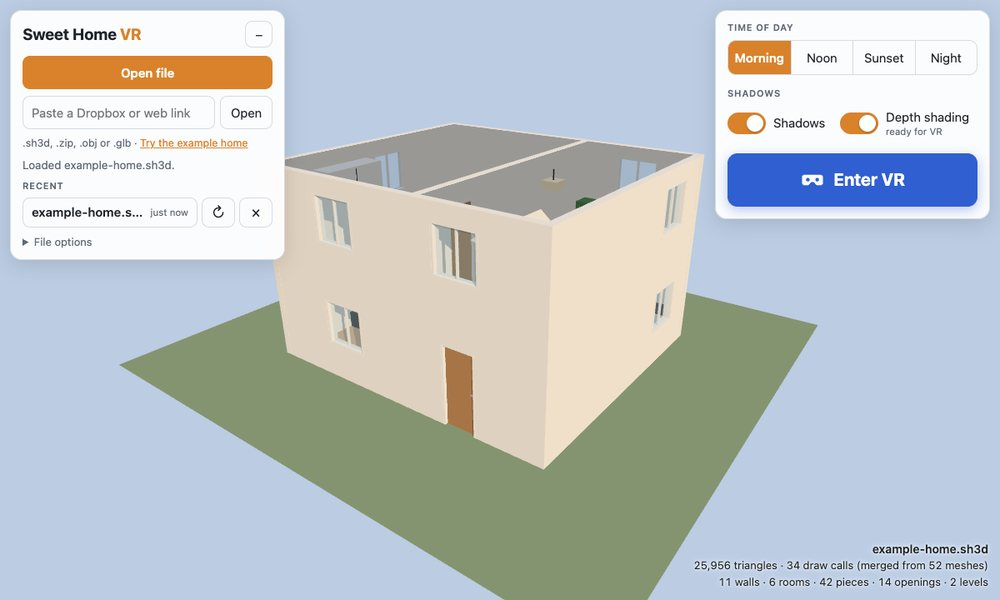
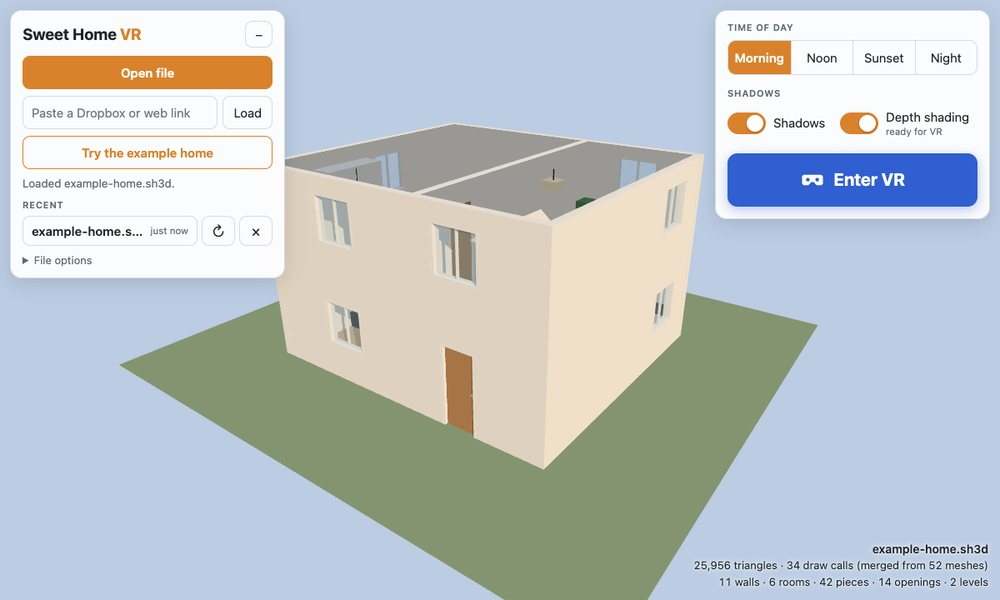
Welcome notes on the empty page; Load button; example as an outline button
- While no model is open, two handwritten-style notes with sketched
  arrows sit under the two cards: 1 Start here (with the file formats),
  2 Set the mood; they go once a model is open
- The file formats moved from the files card into the first note
- The link button is labelled Load; Try the example home is an outline
  button
- Loose media files in the project root are ignored by git

Changed region(s): [[0.0, 0.18, 0.31, 0.48], [0.217, 0.36, 0.248, 0.39]]

diff --git a/index.html b/index.html
@@ -57,7 +57,8 @@
 		button:hover { border-color: var(--accent); }
 		button.primary { background: var(--accent); border-color: var(--accent); color: var(--accent-text); font-weight: 600; }
 		button:disabled { opacity: .5; cursor: default; }
-		button.link { border: 0; min-height: 0; padding: 0; color: var(--accent); text-decoration: underline; font-size: inherit; }
+		button.outline { border-color: var(--accent); color: var(--accent); font-weight: 600; }
+		button.outline:hover { background: color-mix(in srgb, var(--accent) 12%, transparent); }
 		input[type=url], select { font: inherit; color: var(--text); background: transparent; border: 1px solid var(--line);
 			border-radius: 9px; padding: 0 10px; min-height: 40px; width: 100%; min-width: 0; }
 		h2 { font-size: 11px; text-transform: uppercase; letter-spacing: .07em; color: var(--muted); margin: 0; font-weight: 600; }
@@ -141,6 +142,43 @@
 			#panel:not(.collapsed) ~ #stats { display: none; } /* no room while the files card is open */
 			button.xr { min-height: 56px; }
 		}
+		/* ---- Welcome: two handwritten notes with sketched arrows, over the
+		   empty view until a model is open. main.js places each beside what it
+		   points at. System handwriting fonts only (nothing is downloaded). ---- */
+		#welcome { position: fixed; pointer-events: none; color: #27313a;
+			font-family: "Bradley Hand", "Segoe Print", "Chalkboard SE", "Marker Felt", "Comic Sans MS", cursive;
+			text-shadow: 0 0 3px rgba(255,255,255,.95), 0 0 12px rgba(255,255,255,.8); }
+		body.dark-sky #welcome { color: #f6f1e7; text-shadow: 0 0 3px rgba(0,0,0,.9), 0 0 12px rgba(0,0,0,.7); }
+		#welcome .step { position: absolute; display: flex; align-items: center; gap: 8px; padding: 0 6px; }
+		#welcome .step[data-dir="right"] { justify-content: flex-end; }
+		#welcome .step:nth-child(1) .text { transform: rotate(-2deg); }
+		#welcome .step:nth-child(2) .text { transform: rotate(1.5deg); }
+		/* The number, in a circle drawn by hand. */
+		#welcome .num { flex: 0 0 auto; position: relative; width: 42px; height: 42px; display: grid; place-items: center;
+			font-size: 27px; font-weight: 700; line-height: 1; color: var(--accent); text-shadow: 0 0 3px rgba(255,255,255,.95); }
+		#welcome .num svg { position: absolute; inset: 0; width: 100%; height: 100%; }
+		#welcome .text { flex: 0 1 auto; max-width: 250px; min-width: 0; }
+		#welcome strong { display: block; font-size: 27px; line-height: 1.1; }
+		#welcome .text span { display: block; font-size: 19px; line-height: 1.2; }
+		#welcome svg { fill: none; stroke: currentColor; stroke-width: 2.6; stroke-linecap: round; stroke-linejoin: round; overflow: visible;
+			filter: drop-shadow(0 0 2px rgba(255,255,255,.9)); }
+		body.dark-sky #welcome svg { filter: drop-shadow(0 0 2px rgba(0,0,0,.8)); }
+		#welcome .num svg { stroke: var(--accent); stroke-width: 2.4; }
+		/* The arrow is drawn pointing left; the second note's is mirrored. */
+		#welcome .arrow { flex: 0 1 86px; min-width: 46px; aspect-ratio: 90 / 44; }
+		#welcome .step[data-dir="right"] .arrow { transform: scaleX(-1); }
+		#welcome .note { position: absolute; margin: 0; padding: 0 12px; text-align: center; font-size: 19px; opacity: .85; transform: rotate(-1deg); }
+		/* The usual layout: each note under its card ("below"); with the cards
+		   stacked on a narrow window, both notes in the gap between them
+		   ("stack"). The arrow comes first and points up or down. "side" (notes
+		   between the cards) is only used when there is no room under a card. */
+		#welcome[data-layout="stack"] { display: flex; flex-direction: column; justify-content: center; gap: 14px; padding: 0 14px; }
+		#welcome[data-layout="stack"] .step, #welcome[data-layout="stack"] .note { position: static; }
+		#welcome:not([data-layout="side"]) .step { justify-content: flex-start; }
+		#welcome:not([data-layout="side"]) .step[data-dir] .arrow { flex: 0 0 44px; min-width: 0; order: -1; transform: rotate(90deg); }
+		#welcome[data-layout="stack"] .step[data-dir="right"] .arrow { transform: rotate(-90deg) scaleY(-1); }
+		#welcome[data-layout="below"] .text { max-width: none; }
+
 		/* Dropping files on the page */
 		body.dropping #viewport { outline: 3px dashed var(--accent); outline-offset: -10px; }
 	</style>
@@ -158,6 +196,21 @@
 <body>
 	<div id="viewport"></div>
 
+	<!-- Welcome: two handwritten notes with arrows to the two cards. Hidden once a model is open. -->
+	<div id="welcome" hidden aria-label="How to start">
+		<div class="step" data-dir="left">
+			<svg class="arrow" viewBox="0 0 90 44" aria-hidden="true"><path d="M86 12 C 68 33, 36 39, 8 22"/><path d="M14.1 32.4 L8 22 L20 22.8"/></svg>
+			<b class="num"><svg viewBox="0 0 42 42" aria-hidden="true"><path d="M22 4 C 33 3, 39 12, 38 22 C 37 32, 28 39, 18 38 C 8 37, 3 28, 4 19 C 5 10, 13 3, 25 5"/></svg>1</b>
+			<div class="text"><strong>Start here</strong><span>open a .sh3d, .zip, .obj or .glb file, or try the example</span></div>
+		</div>
+		<div class="step" data-dir="right">
+			<b class="num"><svg viewBox="0 0 42 42" aria-hidden="true"><path d="M20 5 C 31 2, 39 11, 38 21 C 37 32, 29 38, 19 38 C 9 38, 3 30, 4 20 C 5 10, 12 4, 24 4"/></svg>2</b>
+			<div class="text"><strong>Set the mood</strong><span>pick the time of day and the shadows</span></div>
+			<svg class="arrow" viewBox="0 0 90 44" aria-hidden="true"><path d="M86 30 C 64 8, 34 6, 8 20"/><path d="M14.7 10.1 L8 20 L20 20"/></svg>
+		</div>
+		<p class="note">Your home never leaves this device.</p>
+	</div>
+
 	<!-- Files: open a model, or reopen a recent one. -->
 	<aside id="panel" class="card">
 		<header>
@@ -168,12 +221,12 @@
 			<!-- No restrictive accept attribute: Quest Browser greys out uncommon extensions. -->
 			<input type="file" id="file-input" multiple>
 			<button id="open-dropbox" class="primary" hidden>Open from Dropbox</button>
-			<button id="open-file" class="primary">Open file</button>
+			<button id="open-file" class="primary" title="Sweet Home 3D 5.3 or later (.sh3d), a zip, an OBJ with its .mtl and textures, or a GLB">Open file</button>
 			<div class="link-row">
 				<input type="url" id="link-input" placeholder="Paste a Dropbox or web link" autocomplete="off" aria-label="Link to a model">
-				<button id="open-link">Open</button>
+				<button id="open-link">Load</button>
 			</div>
-			<p class="hint" title="Sweet Home 3D 5.3 or later (.sh3d), a zip, an OBJ with its .mtl and textures, or a GLB">.sh3d, .zip, .obj or .glb · <button id="open-example" class="link">Try the example home</button></p>
+			<button id="open-example" class="outline">Try the example home</button>
 			<div id="status" role="status"></div>
 			<section id="recent-section" hidden>
 				<h2>Recent</h2>

diff --git a/js/main.js b/js/main.js
@@ -399,7 +399,7 @@ function setupDropbox() {
 }
 
 function openFromDropbox() {
-	if (!window.Dropbox) { setStatus('Dropbox is not available right now. Try Open from link instead.', true); return; }
+	if (!window.Dropbox) { setStatus('Dropbox is not available right now. Paste a link and press Load instead.', true); return; }
 	// Must run directly in the click handler, or the browser blocks the popup.
 	window.Dropbox.choose({
 		linkType: 'direct',
@@ -481,6 +481,7 @@ let xrSupport = { vr: false, ar: false };
 let xrChecked = false; // the browser has answered whether it supports VR
 
 function updateXRButtons() {
+	layoutWelcomeSoon(); // (called whenever loading starts or ends, or VR support becomes known)
 	const box = $('xr-buttons');
 	box.replaceChildren();
 	if (!xrSupport.vr && !xrSupport.ar) {
@@ -550,6 +551,77 @@ $('units').value = CONFIG.defaultObjUnits;
 $('link-input').value = getLastLink();
 renderRecents();
 
+// ---------------------------------------------------------------------------
+// Welcome: three steps with arrows over the empty view, until a model is open
+// ---------------------------------------------------------------------------
+
+/**
+ * Places the two welcome notes by what they point at: 1 the files card, 2
+ * the display card. Three layouts:
+ *   below  (preferred) each note sits under its card, with an arrow up to it
+ *   side   a card is too tall to leave room beneath it: the notes go between
+ *          the cards instead, level with the Open file button and the options
+ *   stack  cards stacked (narrow windows): both notes in the gap between them
+ */
+function layoutWelcome() {
+	const w = $('welcome');
+	const show = !current && loading === 0;
+	w.hidden = !show;
+	if (!show) return;
+	const p = $('panel').getBoundingClientRect(), v = $('view').getBoundingClientRect();
+	const [one, two] = w.querySelectorAll('.step'), note = w.querySelector('.note');
+	const H = window.innerHeight, strip = v.left - p.right;
+	const place = (el, left, top, width) => Object.assign(el.style, { left: `${left}px`, top: `${top}px`, width: `${width}px` });
+	note.hidden = false;
+
+	if (v.top > p.bottom) {
+		// Stacked: the gap between the files card (top) and the display card (bottom).
+		w.dataset.layout = 'stack';
+		const top = p.bottom + 8, height = v.top - 8 - top;
+		for (const el of [one, two, note]) Object.assign(el.style, { left: '', top: '', width: '' });
+		Object.assign(w.style, { left: '0px', top: `${top}px`, width: '100%', height: `${Math.max(0, height)}px` });
+		w.hidden = height < 60 || w.scrollHeight > height + 1; // no room: better nothing than cut-off notes
+		return;
+	}
+	Object.assign(w.style, { left: '0px', top: '0px', width: '100%', height: `${H}px` });
+
+	// Preferred: each note under its card.
+	w.dataset.layout = 'below';
+	place(one, p.left, p.bottom + 12, p.width);
+	place(two, v.left, v.bottom + 12, v.width);
+	let bottom = Math.max(p.bottom + 12 + one.offsetHeight, v.bottom + 12 + two.offsetHeight);
+	place(note, 0, bottom + 26, window.innerWidth);
+
+	if (bottom > H - 6 && strip >= 240) {
+		// No room under a card (a long Recent list, a short window): between the cards.
+		w.dataset.layout = 'side';
+		const width = Math.min(strip, 350);
+		one.style.width = two.style.width = `${width}px`; // (set first: their heights depend on it)
+		const centre = (el) => { const r = el.getBoundingClientRect(); return r.height ? (r.top + r.bottom) / 2 : 0; };
+		const top1 = Math.max(4, (centre($('open-file')) || centre($('collapse'))) - one.offsetHeight / 2);
+		// Note 2 points at the middle of the options; if the strip is too narrow
+		// for the notes to pass each other, it moves down below note 1.
+		const options = ($('time').getBoundingClientRect().top + document.querySelector('#view .switches').getBoundingClientRect().bottom) / 2;
+		let top2 = Math.max(4, options - two.offsetHeight / 2);
+		if (strip < 2 * width) top2 = Math.max(top2, top1 + one.offsetHeight + 10);
+		place(one, p.right, top1, width);
+		place(two, v.left - width, top2, width);
+		bottom = Math.max(top1 + one.offsetHeight, top2 + two.offsetHeight);
+		place(note, p.right, Math.max(bottom + 30, Math.min(H * 0.62, H - 70)), strip);
+	}
+	note.hidden = note.offsetTop + note.offsetHeight > H - 6; // (the last line goes first when space runs out)
+	w.hidden = bottom > H - 6; // a very short window: no room at all
+}
+let welcomeQueued = false;
+/** Lays the welcome out after the page has settled (several changes in one frame cost one layout). */
+function layoutWelcomeSoon() {
+	if (welcomeQueued) return;
+	welcomeQueued = true;
+	requestAnimationFrame(() => { welcomeQueued = false; layoutWelcome(); });
+}
+window.addEventListener('resize', layoutWelcomeSoon);
+if ('ResizeObserver' in window) { const ro = new ResizeObserver(layoutWelcomeSoon); ro.observe($('panel')); ro.observe($('view')); }
+
 function setCollapsed(c) {
 	$('panel').classList.toggle('collapsed', c);
 	$('collapse').textContent = c ? '+' : '–';
@@ -604,7 +676,7 @@ if (initial) {
 		ready = loadUrl(initial, { remember: false }).then(() => true, () => false);
 	} else if (link.ok) {
 		$('link-input').value = initial;
-		setStatus(`This page was opened with a link to a model on ${link.host}. Press “Open from link” if you trust it.`);
+		setStatus(`This page was opened with a link to a model on ${link.host}. Press “Load” if you trust it.`);
 	} else {
 		setStatus(link.error, true);
 	}

diff --git a/scripts/xr-test.js b/scripts/xr-test.js
@@ -104,8 +104,27 @@ const clickMenu = async (id) => { await aimW('right', R, await menuPoint(id)); a
 const modelTop = () => page.evaluate(() => { const x = window.__svr.xr; return x.stage.localToWorld(x.doll.pos.clone().add(new (x.doll.pos.constructor)(0.05, 0.02, 0.25))).toArray(); });
 
 console.log(`Fixture: ${fixture}   Device: ${DEVICE}`);
+// The empty page: two welcome notes by the cards; they go once a model is open.
+await page.goto('http://localhost:8129/?test');
+await page.waitForFunction(() => !document.getElementById('welcome').hidden, null, { timeout: 5000 }).catch(() => {});
+const welcome = () => page.evaluate(() => {
+	const r = (el) => el.getBoundingClientRect(), w = document.getElementById('welcome');
+	if (w.hidden) return { shown: false };
+	const over = (a, b) => a.left < b.right - 1 && b.left < a.right - 1 && a.top < b.bottom - 1 && b.top < a.bottom - 1;
+	const cards = [r(document.getElementById('panel')), r(document.getElementById('view'))];
+	const notes = [...w.querySelectorAll('.step')];
+	const texts = [...w.querySelectorAll('.num, .text')].map(r);
+	return { shown: true, layout: w.dataset.layout, notes: notes.length, clear: !texts.some((t) => cards.some((c) => over(t, c))), inside: texts.every((t) => t.top >= 0 && t.bottom <= innerHeight),
+		under: Math.abs(r(notes[0]).left - cards[0].left) < 2 && r(notes[0]).top > cards[0].bottom && Math.abs(r(notes[1]).left - cards[1].left) < 2 && r(notes[1]).top > cards[1].bottom,
+		formats: /\.sh3d.*\.zip.*\.obj.*\.glb/.test(notes[0].textContent) && !/\.sh3d/.test(document.getElementById('panel').textContent) };
+});
+let wl = await welcome();
+check('welcome notes sit under the two cards on the empty page', wl.shown && wl.notes === 2 && wl.layout === 'below' && wl.under && wl.clear && wl.inside && wl.formats, JSON.stringify(wl));
+await shot('welcome');
 await page.goto(`http://localhost:8129/?test&model=${encodeURIComponent(fixture)}`);
 check('model loads', await page.evaluate(() => window.__svr.ready));
+await frames(5);
+check('welcome notes go once a model is open', (await welcome()).shown === false);
 const enterVR = page.locator('#xr-buttons button', { hasText: 'Enter VR' });
 check('one Enter VR button', await enterVR.count() === 1 && await page.locator('#xr-buttons button').count() === 1);
 

diff --git a/README.md b/README.md
@@ -17,7 +17,7 @@ It runs in the Meta Quest Browser: no app store, no developer mode, no sideloadi
 ## Using it
 
 1. Open the app's URL (GitHub Pages) in a browser.
-2. **Open file**, or paste a link (e.g. a Dropbox shared link) and press **Open from link**. No file to hand? **Try the example home**, a small two-storey house made for this viewer. The model's details show at the bottom right.
+2. **Open file**, or paste a link (e.g. a Dropbox shared link) and press **Load**. No file to hand? **Try the example home**, a small two-storey house made for this viewer. The model's details show at the bottom right.
 3. In the card at the top right, choose the **Time of day** (morning by default, noon, sunset or night), switch **Shadows** and **Depth shading** on or off, and press the big **Enter VR** button. The files card at the top left can be hidden with **–**.
 4. Drag to orbit, scroll or pinch to zoom, right-drag to pan.
 5. Next time, tap the model under **Recent**: the last 5 models are kept in the browser, so reopening one needs no download. For a model opened from a link, **↻** downloads the latest version from the same link (handy after editing the home on the Mac). The last link you used is also remembered in the link box.
@@ -95,7 +95,7 @@ Without a key the button is simply hidden. The Chooser script is the only file l
 
 - **Your home stays on your device.** Models are read in the browser. Nothing is uploaded, and there is no analytics or tracking. Recent models are kept in the browser's own storage (IndexedDB) on that device; remove them with the × beside each one.
 - **Opening a model cannot contact other websites.** A model file can contain links to images on other servers. They are never followed (the status line says how many were ignored), so a file cannot be used to see who opens it.
-- **Links.** Only `https://` links are downloaded, up to 500 MB, without cookies or a referrer. A `?model=` address that points to another site is not opened automatically: it is put in the link box and waits for you to press **Open from link**.
+- **Links.** Only `https://` links are downloaded, up to 500 MB, without cookies or a referrer. A `?model=` address that points to another site is not opened automatically: it is put in the link box and waits for you to press **Load**.
 - **Oversized files.** Archives that would unpack to more than 1 GB or 50,000 files are refused before unpacking, and textures above 2048 pixels are shrunk to fit a Quest 2's memory. The limits are in `config.js` and `js/formats.js`.
 - **The page only runs its own code.** A Content Security Policy in `index.html` allows scripts from this site only, with the import map pinned by its hash. All libraries are vendored; nothing loads from a CDN. If you edit the import map, `npm test` tells you the new hash.
 - **Offline.** After the first visit the app's own files are kept by a service worker (`sw.js`), so the page opens without internet and your Recent models still load. Online, it always asks the server for the current files.

diff --git a/SPEC.md b/SPEC.md
@@ -199,6 +199,7 @@ README.md         how to host, use and update
      - "Try the example home": `examples/example-home.sh3d`, generated by `scripts/make-example.js` from original box furniture. The official Sweet Home 3D examples state no licence allowing redistribution and their server sends no CORS headers, so they are neither copied nor linked.
      - 2D page: a Display section (Light, Shadows switch) apart from the file buttons; morning is the default light.
   8. Page layout (changed at the user's request: the panel had grown so long that Enter VR needed scrolling): a files card at the top left (Open file, link field, example, status, Recent, File options); a display card at the top right (changed again at the user's request: a bottom bar left Enter VR in a far corner, easy to miss) with "Time of day" (four buttons), "Shadows" (Shadows and Depth shading switches) and a large Enter VR button; the model's details at the bottom right. On narrow windows the display card sits at the bottom so Enter VR stays on screen. Recent rows are a grid so their icon buttons cannot overflow. Files can be dropped on the page.
+  10. Welcome notes (added at the user's request: the empty page gave no hint where to start): while no model is open, two handwritten-style notes with sketched arrows: "1 Start here" (with the file formats, which moved here from the files card) under the files card and "2 Set the mood" under the display card, plus one line saying the home never leaves the device. System handwriting fonts only. If a card leaves no room beneath it they sit between the cards; on narrow windows, in the gap between the stacked cards. The link button is labelled **Load**, and **Try the example home** is an outline button.
   9. Headsets: built and tested on Quest 2. `XR_DEVICE=metaQuest3 | oculusQuest1 | metaQuestPro npm run xr-test` runs the scripted session with those controller layouts (all pass); real Quest 3 and Quest 1 devices are untested.
   6. Pre-release audit (done): safety (see "Safety"), bugs, and performance: the 2D page redraws only when something changes (2 frames a second when idle), raycast target lists are cached per model, the lighting change check allocates nothing, and loading pauses between furniture models so progress is painted.
 - Keep the code plain and commented. No frameworks beyond three.js.
